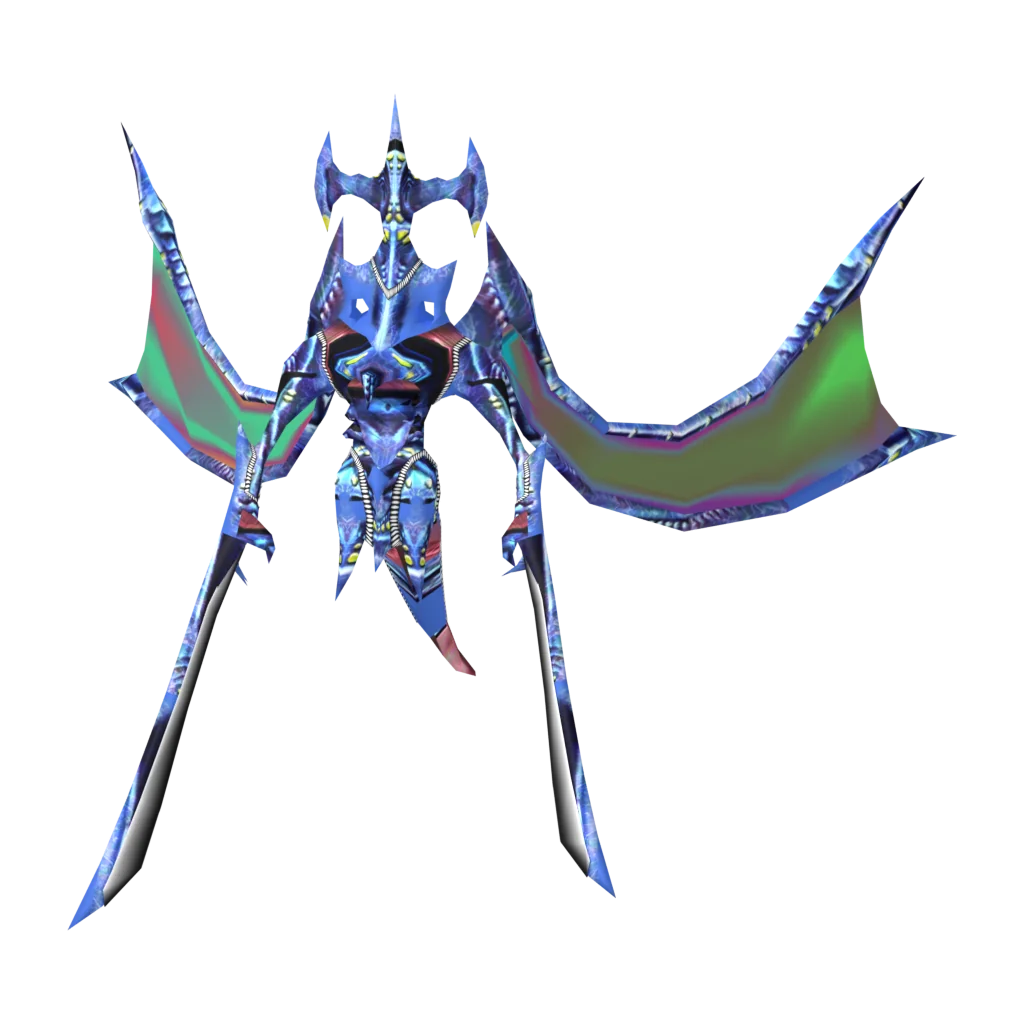
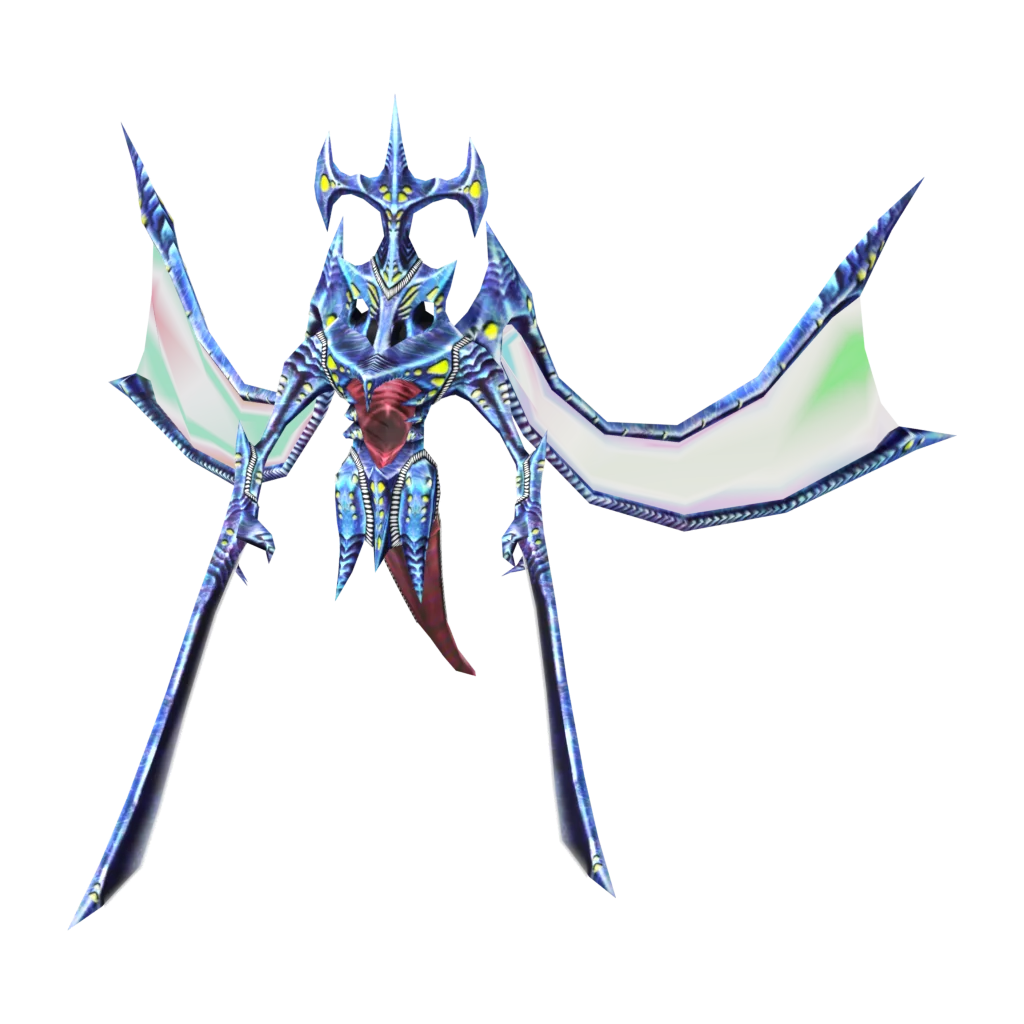
Redraw the Ill Gill render from its HD viewpoint and say dropcharts
Replace the Ill Gill HD image with the maintainer's 1280 x 1107 PNG and
render the model from bm_ene_ill_gill.bml at walk frame zero, yaw -20 and
pitch 5, matching the HD pose instead of the old side view.

Generalize the Dark Falz Blender renderer into render_blender_models.py with
per-recipe archives, optional yaw/pitch and additive glow materials. Store
decoded textures upright for the NJ mesh import, which re-renders the three
Dark Falz forms, and cover every Blender recipe in the evidence test.

The monster detail page's drop note and source link now say dropcharts.

Changed region(s): [[0.0625, 0.0938, 0.9375, 0.9062]]

diff --git a/src/app/monster-catalog/monster-catalog.component.html b/src/app/monster-catalog/monster-catalog.component.html
@@ -36,8 +36,8 @@
       <section id="stats" class="detail-section"><h2><span>01</span>{{ i18n.t('基础属性') }}</h2>@if(stats();as values){<dl class="stats-grid">@for(value of values;track $index){<div><dt>{{ metadata.statKeys[$index].toUpperCase() }} <small>{{ i18n.t(statLabels[$index]) }}</small></dt><dd>{{ value }}{{ $index===14?'%':'' }}</dd></div>}</dl>}@else{<p class="muted">{{ i18n.t('暂无此难度与模式的属性记录') }}</p>}</section>
       <section id="behavior" class="detail-section"><h2><span>02</span>{{ i18n.t('行为与特殊机制') }}</h2>@if(entry.notes.length){<ul class="behavior-notes">@for(note of entry.notes;track note.zh){<li>{{ i18n.localized(note) }}</li>}</ul>}@else{<p class="muted">{{ i18n.t('行为说明尚未收录，可查阅来源页面。') }}</p>}<a [href]="entry.source" target="_blank" rel="noopener">Ephinea Wiki ↗</a></section>
       <section id="attacks" class="detail-section"><h2><span>03</span>{{ i18n.t('攻击与机制数据') }}</h2><p class="muted">{{ i18n.t('数值需结合攻击类型、抗性、部位及触发条件阅读；未填写不代表 0。') }}</p><span class="source-badge">{{ i18n.t('来源表格（英文原文）') }}</span><div class="mechanic-grid">@for(table of tables();track $index){<article class="mechanic-table"><p class="muted" lang="en">{{ entry.sourceTitle }} · {{ table.headings.slice(0,-1).join(' / ') }}</p><h3 lang="en">{{ table.caption || table.section }}</h3><p class="table-context" lang="en">{{ tableContext(table) }}</p><div class="table-scroll" role="region" tabindex="0" [attr.aria-label]="table.caption || table.section"><table lang="en"><thead><tr>@for(cell of table.rows[0];track $index){<th scope="col">{{ cell }}</th>}</tr></thead><tbody>@for(row of table.rows.slice(1);track $index){<tr>@for(cell of row;track $index){<td [class.unknown]="!cell || cell.includes('???')">{{ cell || i18n.t('来源未填写') }}</td>}</tr>}</tbody></table></div><a class="table-source" [href]="entry.source+'#'+table.anchor" target="_blank" rel="noopener">Wiki ↗</a></article>}@empty{<p class="muted">{{ i18n.t('暂无此条件下的机制表格，请结合说明与来源阅读。') }}</p>}</div></section>
-      <section id="drops" class="detail-section"><h2><span>04</span>{{ i18n.t('稀有掉落') }}</h2><p class="muted">{{ i18n.t('掉落概率来自 droptable，为每次击杀的基础 DR，已包含 DAR；不要再次相乘。未计活动及队伍加成。') }}</p>@if(entry.dropScope==='boss'){<p class="notice">{{ i18n.t('以下为首领击破奖励，不是各部位分别掉落。') }}</p>}@if(drops();as drop){<p class="drop-origin" lang="en">{{ drop.name }} <span>DAR {{ drop.dar ?? i18n.t('来源未填写') }}</span></p><div class="drop-grid">@for(section of metadata.sections;track section.name;let i=$index){<article class="drop-card" [style.--section-color]="section.color"><h3><span class="section-dot" aria-hidden="true"></span>{{ i18n.t(sectionLabels[i]) }}<small>{{ section.name }}</small></h3>@for(item of drop.cells[i];track $index){<div class="drop-item">@if(item.id){<a [routerLink]="i18n.link('/data/items/'+item.id+'.html')">{{ i18n.name(item) }}</a>}@else{<strong>{{ i18n.name(item) }}</strong>}<span class="rate">{{ item.rate }}</span></div>}@empty{<p class="muted">{{ i18n.t('没有稀有掉落') }}</p>}</article>}</div>}@else{<p class="muted">{{ i18n.t('此条目未关联独立的稀有掉落记录。') }}</p>}<a href="https://dropcharts.psohaven.com/bb/" target="_blank" rel="noopener">{{ i18n.t('打开掉落表') }} ↗</a></section>
-      <section class="detail-section sources"><h2><span>05</span>{{ i18n.t('资料来源') }}</h2><p><a [href]="entry.source+'?oldid='+entry.revision" target="_blank" rel="noopener">Ephinea Wiki · #{{ entry.revision }}</a> · {{ i18n.t('核对日期') }} {{ entry.checkedAt }}</p><p><a [href]="metadata.dropSource" target="_blank" rel="noopener">droptable / bb/data/en.js ↗</a> <small>SHA-256 {{ metadata.dropSha256.slice(0,12) }}</small></p>@if(portraitSource()?.[0]==='wiki' && (difficulty()==='u'?entry.ultimateImageSource:entry.imageSource);as imageSource){<p><a [href]="imageSource" target="_blank" rel="noopener">{{ i18n.t('图片来源') }} · Ephinea Wiki ↗</a></p>}<a href="http://pso.ffsky.cn/ep1m1.htm" target="_blank" rel="noopener">{{ i18n.t('天幻怪物图鉴') }} ↗</a></section>
+      <section id="drops" class="detail-section"><h2><span>04</span>{{ i18n.t('稀有掉落') }}</h2><p class="muted">{{ i18n.t('掉落概率来自 dropcharts，为每次击杀的基础 DR，已包含 DAR；不要再次相乘。未计活动及队伍加成。') }}</p>@if(entry.dropScope==='boss'){<p class="notice">{{ i18n.t('以下为首领击破奖励，不是各部位分别掉落。') }}</p>}@if(drops();as drop){<p class="drop-origin" lang="en">{{ drop.name }} <span>DAR {{ drop.dar ?? i18n.t('来源未填写') }}</span></p><div class="drop-grid">@for(section of metadata.sections;track section.name;let i=$index){<article class="drop-card" [style.--section-color]="section.color"><h3><span class="section-dot" aria-hidden="true"></span>{{ i18n.t(sectionLabels[i]) }}<small>{{ section.name }}</small></h3>@for(item of drop.cells[i];track $index){<div class="drop-item">@if(item.id){<a [routerLink]="i18n.link('/data/items/'+item.id+'.html')">{{ i18n.name(item) }}</a>}@else{<strong>{{ i18n.name(item) }}</strong>}<span class="rate">{{ item.rate }}</span></div>}@empty{<p class="muted">{{ i18n.t('没有稀有掉落') }}</p>}</article>}</div>}@else{<p class="muted">{{ i18n.t('此条目未关联独立的稀有掉落记录。') }}</p>}<a href="https://dropcharts.psohaven.com/bb/" target="_blank" rel="noopener">{{ i18n.t('打开掉落表') }} ↗</a></section>
+      <section class="detail-section sources"><h2><span>05</span>{{ i18n.t('资料来源') }}</h2><p><a [href]="entry.source+'?oldid='+entry.revision" target="_blank" rel="noopener">Ephinea Wiki · #{{ entry.revision }}</a> · {{ i18n.t('核对日期') }} {{ entry.checkedAt }}</p><p><a [href]="metadata.dropSource" target="_blank" rel="noopener">dropcharts / bb/data/en.js ↗</a> <small>SHA-256 {{ metadata.dropSha256.slice(0,12) }}</small></p>@if(portraitSource()?.[0]==='wiki' && (difficulty()==='u'?entry.ultimateImageSource:entry.imageSource);as imageSource){<p><a [href]="imageSource" target="_blank" rel="noopener">{{ i18n.t('图片来源') }} · Ephinea Wiki ↗</a></p>}<a href="http://pso.ffsky.cn/ep1m1.htm" target="_blank" rel="noopener">{{ i18n.t('天幻怪物图鉴') }} ↗</a></section>
     }
   } @else if (result()) {
     <section class="empty"><h1>{{ i18n.t(result()?.failed?'资料暂时无法加载':'未找到怪物') }}</h1>@if(result()?.failed){<button (click)="retry()">{{ i18n.t('返回并重试') }}</button>}</section>

diff --git a/src/app/monster-catalog/monster-language.service.ts b/src/app/monster-catalog/monster-language.service.ts
@@ -24,7 +24,7 @@ const messages: Record<string,[string,string]> = {
   '数值需结合攻击类型、抗性、部位及触发条件阅读；未填写不代表 0。':['Read values with their damage type, resistances, part and trigger conditions. Blank does not mean zero.','攻撃の種類・耐性・部位・発動条件を併せて確認してください。未記載は 0 を意味しません。'],
   '此条目未关联独立的稀有掉落记录。':['No independent rare-drop row is linked to this entry.','この項目に独立したレアドロップは登録されていません。'],
   '以下为首领击破奖励，不是各部位分别掉落。':['These are boss-clear drops, not separate drops from each part.','以下はボス撃破時のドロップです。各部位の個別ドロップではありません。'],
-  '掉落概率来自 droptable，为每次击杀的基础 DR，已包含 DAR；不要再次相乘。未计活动及队伍加成。':['Rates come from droptable: base per-kill DR already includes DAR. Do not multiply again. Event and party boosts are excluded.','確率は droptable の基本 DR（撃破ごと）で、DAR を含みます。再度掛け合わせないでください。イベント・パーティ補正は含みません。'],
+  '掉落概率来自 dropcharts，为每次击杀的基础 DR，已包含 DAR；不要再次相乘。未计活动及队伍加成。':['Rates come from dropcharts: base per-kill DR already includes DAR. Do not multiply again. Event and party boosts are excluded.','確率は dropcharts の基本 DR（撃破ごと）で、DAR を含みます。再度掛け合わせないでください。イベント・パーティ補正は含みません。'],
   '没有稀有掉落':['No rare drop','レアドロップなし'], '打开掉落表':['Open drop chart','ドロップ表を開く'], '核对日期':['Checked','確認日'], '图片来源':['Image source','画像の出典'],
   '返回并重试':['Reload and retry','再読み込み'], '资料暂时无法加载':['Unable to load data','データを読み込めません'], '未找到怪物':['Enemy not found','エネミーが見つかりません'],
   '森林':['Forest','森'], '洞窟':['Cave','洞窟'], '坑道':['Mine','坑道'], '遗迹':['Ruins','遺跡'],

diff --git a/scripts/render_blender_models.py b/scripts/render_blender_models.py
@@ -1,8 +1,11 @@
-"""Render complete Dark Falz assemblies from the original BB archive in Blender.
+"""Render monster models from original BB archives in Blender (renders with `renderer: blender`).
 
-Uses source bind poses or exact wait-frame-zero keys, not a runtime replay.
-Run Blender with --python-exit-code 1 --python scripts/render_dark_falz_models.py.
+Uses source bind poses or exact motion-frame-zero keys, not a runtime replay.
+Optional `yaw` / `pitch` (degrees) turn the camera around the model's vertical axis
+and above it; yaw 0 faces the model's front.
+Run Blender with --python-exit-code 1 --python scripts/render_blender_models.py.
 """
+import math
 from pathlib import Path
 import argparse
 import hashlib
@@ -10,6 +13,7 @@ import json
 import sys
 
 import bpy
+import numpy as np
 from mathutils import Vector
 
 ROOT = Path(__file__).resolve().parents[1]
@@ -21,13 +25,24 @@ import render_textured as textures
 from pso_archives import bml_entries, gsl_files, pack_xvm
 from pso_motion_frame import apply_frame_zero
 
-OUT = ROOT / 'artifacts/dark-falz-renders'
+OUT = ROOT / 'artifacts/blender-renders'
 CLIENT = Path('/Applications/EphineaPSO.app/Contents/SharedSupport/prefix/drive_c/EphineaPSO/data')
 CONFIG = ROOT / 'content/monster-catalog/model-renders.json'
 
 
 def digest(data):
     return hashlib.sha256(data).hexdigest()
+
+
+def upright(images):
+    """Store decoded rows bottom-up as Blender expects; the NJ mesh import maps UVs as (u, 1 - v)."""
+    for image in images:
+        width, height = image.size
+        pixels = np.empty(width * height * 4, dtype=np.float32)
+        image.pixels.foreach_get(pixels)
+        image.pixels.foreach_set(pixels.reshape(height, width * 4)[::-1].ravel())
+        image.pack()
+    return images
 
 
 def material_factory(images):
@@ -52,7 +67,8 @@ def material_factory(images):
             camera.convert_from, camera.convert_to = 'WORLD', 'CAMERA'
             links.new(geometry.outputs['Normal'], camera.inputs[0])
             scale = nodes.new('ShaderNodeVectorMath'); scale.operation = 'MULTIPLY'
-            scale.inputs[1].default_value = (.5, -.5, 0)
+            # Upright images: an upward normal samples the texture's top row.
+            scale.inputs[1].default_value = (.5, .5, 0)
             links.new(camera.outputs[0], scale.inputs[0])
             bias = nodes.new('ShaderNodeVectorMath'); bias.operation = 'ADD'
             bias.inputs[1].default_value = (.5, .5, 0)
@@ -62,7 +78,18 @@ def material_factory(images):
             assert all(v.uv is not None for v in primitive.vertices), name
         links.new(image.outputs['Color'], bsdf.inputs['Base Color'])
         links.new(image.outputs['Color'], bsdf.inputs['Emission Color'])
-        if source.use_alpha:
+        if source.destination_blend == 1:
+            # Additive glow (destination factor ONE): emit the texture with coverage from its value (max channel).
+            emission = nodes.new('ShaderNodeEmission')
+            links.new(image.outputs['Color'], emission.inputs['Color'])
+            coverage = nodes.new('ShaderNodeSeparateColor'); coverage.mode = 'HSV'
+            links.new(image.outputs['Color'], coverage.inputs['Color'])
+            mix = nodes.new('ShaderNodeMixShader')
+            links.new(coverage.outputs['Blue'], mix.inputs['Fac'])
+            links.new(nodes.new('ShaderNodeBsdfTransparent').outputs[0], mix.inputs[1])
+            links.new(emission.outputs[0], mix.inputs[2])
+            links.new(mix.outputs[0], nodes.get('Material Output').inputs['Surface'])
+        elif source.use_alpha:
             links.new(image.outputs['Alpha'], bsdf.inputs['Alpha'])
         return mat
     return material
@@ -74,19 +101,27 @@ def main():
     parser.add_argument('labels', nargs='*')
     args = parser.parse_args(sys.argv[sys.argv.index('--') + 1:] if '--' in sys.argv else [])
     OUT.mkdir(parents=True, exist_ok=True)
-    loose = args.ephinea_data / 'darkfalz_dat.bml'
-    archive = loose.read_bytes() if loose.exists() else gsl_files(args.ephinea_data / 'data.gsl')['darkfalz_dat.bml']
-    entries = {name: (body, texture) for name, body, texture in bml_entries(archive)}
+    gsl = None
+
+    def read_archive(name):
+        nonlocal gsl
+        loose = args.ephinea_data / name
+        if loose.exists():
+            return loose.read_bytes()
+        gsl = gsl or gsl_files(args.ephinea_data / 'data.gsl')
+        return gsl[name]
+
     renders = json.loads(CONFIG.read_text())['renders']
     selected = set(args.labels) if args.labels else None
-    known = {label for label, job in renders.items() if job.get('renderer') == 'blender-dark-falz'}
+    known = {label for label, job in renders.items() if job.get('renderer') == 'blender'}
     if selected and selected - known:
-        raise ValueError(f'Unknown Dark Falz render: {selected - known}')
+        raise ValueError(f'Unknown Blender render: {selected - known}')
     for label, job in renders.items():
-        if job.get('renderer') != 'blender-dark-falz' or selected is not None and label not in selected:
+        if job.get('renderer') != 'blender' or selected is not None and label not in selected:
             continue
-        assert job['archive'] == 'darkfalz_dat.bml'
-        parts = [job, *job['parts']]
+        archive = read_archive(job['archive'])
+        entries = {name: (body, texture) for name, body, texture in bml_entries(archive)}
+        parts = [job, *job.get('parts', [])]
         bpy.ops.wm.read_factory_settings(use_empty=True)
         evidence = []
         for component in parts:
@@ -95,7 +130,7 @@ def main():
             assert texture, part
             path = OUT / (part + '.xvm')
             path.write_bytes(pack_xvm(texture))
-            images = textures.decode_textures(path)
+            images = upright(textures.decode_textures(path))
             motion_name = component.get('motion')
             posed_body = body
             if motion_name:
@@ -123,7 +158,12 @@ def main():
         scene.world = bpy.data.worlds.new('World'); scene.world.color = (.8, .8, .8)
         camera = bpy.data.objects.new('Camera', bpy.data.cameras.new('Camera'))
         scene.collection.objects.link(camera); scene.camera = camera
-        camera.location = center + Vector((.6, -3, .65)) * size
+        if 'yaw' in job:
+            yaw, pitch = math.radians(job['yaw']), math.radians(job.get('pitch', 0))
+            direction = Vector((math.sin(yaw) * math.cos(pitch), -math.cos(yaw) * math.cos(pitch), math.sin(pitch)))
+            camera.location = center + direction * 3.1 * size
+        else:
+            camera.location = center + Vector((.6, -3, .65)) * size
         camera.rotation_euler = (center-camera.location).to_track_quat('-Z', 'Y').to_euler()
         camera.data.type = 'ORTHO'; camera.data.clip_end = size * 100
         bpy.context.view_layer.update()
@@ -137,8 +177,8 @@ def main():
             light.rotation_euler = (-Vector(direction)).to_track_quat('-Z', 'Y').to_euler()
         output = OUT / (label + '.png'); scene.render.filepath = str(output)
         bpy.ops.render.render(write_still=True)
-        record = {'archive': 'darkfalz_dat.bml', 'archiveSha256': digest(archive), 'parts': evidence,
-                  'pose': 'exact source wait frame zero' if label == 'DarkFalzForm3' else 'source bind transforms',
+        record = {'archive': job['archive'], 'archiveSha256': digest(archive), 'parts': evidence,
+                  'pose': 'exact source motion frame zero' if job.get('motion') else 'source bind transforms',
                   'runtimeVerified': False,
                   'rendererSha256': digest(Path(__file__).read_bytes()),
                   'meshParserSha256': digest(Path(meshes.__file__).read_bytes()),

diff --git a/scripts/render_monster_models.py b/scripts/render_monster_models.py
@@ -128,12 +128,12 @@ def main() -> None:
     if unused := set(config["renders"]) - used:
         raise SystemExit(f"Renders bound to no catalog entry: {sorted(unused)}")
 
-    blender_renders = [label for label, job in renders.items() if job.get('renderer') == 'blender-dark-falz']
+    blender_renders = [label for label, job in renders.items() if job.get('renderer') == 'blender']
     if blender_renders:
         subprocess.run([args.blender, '--background', '--factory-startup', '--python-exit-code', '1',
-                        '--python', str(ROOT / 'scripts/render_dark_falz_models.py'), '--',
+                        '--python', str(ROOT / 'scripts/render_blender_models.py'), '--',
                         '--ephinea-data', str(args.ephinea_data), *blender_renders], check=True)
-        subprocess.run(['node', str(ROOT / 'scripts/import_dark_falz_models.mjs'), *blender_renders], check=True)
+        subprocess.run(['node', str(ROOT / 'scripts/import_blender_models.mjs'), *blender_renders], check=True)
         renders = {label: job for label, job in renders.items() if label not in blender_renders}
         if not renders:
             return
@@ -159,7 +159,7 @@ def main() -> None:
                 stale.unlink()
     digest = lambda path: hashlib.sha256(path.read_bytes()).hexdigest()
     previous = json.loads((OUTPUT / 'manifest.json').read_text())
-    manifest = {label: previous[label] if render.get('renderer') == 'blender-dark-falz' else
+    manifest = {label: previous[label] if render.get('renderer') == 'blender' else
                        {"file": file_name(label), "sha256": digest(OUTPUT / file_name(label)),
                         "thumbSha256": digest(OUTPUT / "thumbs" / file_name(label))}
                 for label, render in config["renders"].items()}

diff --git a/docs/MONSTER_CATALOG.md b/docs/MONSTER_CATALOG.md
@@ -374,7 +374,7 @@ did not re-evaluate tiers or change the in-game rotation.
 - 配置：`content/monster-catalog/model-renders.json`。`renders` 记录每张图的模型来源、动作与帧、机位、需要隐藏的特效外壳材质；`bindings` 把图鉴条目的普通 / Ultimate 外观绑定到渲染图。生成器在条目不存在或文件缺失时失败。
 - 模型来源有两种。`npc` 取本地 phantasmal-world（提交 `a8890d22`）已提取的 `assets/npcs`，按其 `EntityAssetLoader.entityTypeToPath` 解析，Ultimate 皮肤按 `UltimateSkins.kt`。`archive` + `model`（+ `motion`）直接读取 Ephinea 客户端数据：`data.gsl` 中的 BML 或散放的 `.bml`（`scripts/pso_archives.py` 负责 PRS、GSL 与 BML 解析）；没有自带贴图的条目使用同一档案的第一个贴图包。首领、部位与 Ultimate 档案（`_a` / `_ap`）以及 EP4 首领的分阶段待机动作均由此取得。
 - phantasmal-world 的部分资源命名有误，已改用客户端档案：其 Hidoom / Migium 实为出场地面物件（正确模型是 Pan Arms 档案 `bm7_s_paa_body` 的 `pal` / `par`），Canane 为另一模型（正确的是 `bm_ene_me1_mb`），挂在 MerissaA 名下的动作属于 Slime（`bm4_ps_ma_body`）。每次改动都应把渲染图与 Wiki / 高清图逐项对照。
-- 常规怪物渲染：`npm run generate:monster-renders -- --harness-assets <phantasmal-world>/web/src/jsMain/resources/assets/npcs`（`scripts/render_monster_models.py`）先把档案条目提取到该目录的 `raw/`，再调用 `scripts/render_monster_models.mjs` 在无界面浏览器中驱动 phantasmal-world 的导出入口 `?npcBatch=1`（`window.__renderNpc`），用它自己的蒙皮与 NJM 动画转换摆姿势，分别在黑底与白底上渲染 2048 px；两图之差还原透明度，叠加发光材质保持半透明。结果裁切到模型、居中留边，输出 1024 px 与 160 px WebP，`manifest.json` 记录 SHA-256。该导出入口只存在于本机 phantasmal-world 工作副本，不属于其仓库；重新渲染前需在本机构建并以 `--harness` 指向它。Dark Falz 三个形态改用下述 Blender 完整装配路径，批量入口按清单中的 `renderer` 分派，不再用只含本体的旧配方覆盖它们。
+- 常规怪物渲染：`npm run generate:monster-renders -- --harness-assets <phantasmal-world>/web/src/jsMain/resources/assets/npcs`（`scripts/render_monster_models.py`）先把档案条目提取到该目录的 `raw/`，再调用 `scripts/render_monster_models.mjs` 在无界面浏览器中驱动 phantasmal-world 的导出入口 `?npcBatch=1`（`window.__renderNpc`），用它自己的蒙皮与 NJM 动画转换摆姿势，分别在黑底与白底上渲染 2048 px；两图之差还原透明度，叠加发光材质保持半透明。结果裁切到模型、居中留边，输出 1024 px 与 160 px WebP，`manifest.json` 记录 SHA-256。该导出入口只存在于本机 phantasmal-world 工作副本，不属于其仓库；重新渲染前需在本机构建并以 `--harness` 指向它。该工作副本已不在本机；Dark Falz 三个形态与 Ill Gill 改用下述 Blender 路径（`renderer: "blender"`），批量入口按清单中的 `renderer` 分派，不再用旧配方覆盖它们。
 - 姿势：默认用模型自己的待机动作（wait / stand / standby 等，Poison Lily 用张开的 `waito`）；EP4 首领一、二阶段分别用 `1st_standby` / `2nd_standby`。De Rol Le（含 Ultimate）用前进动作 `forward` 第 0 帧的伸展身体，模型绕 X 轴抬头 12°，从头部斜前方 45° 取景，与维护者提供的参考图一致。颈部 4 根触手是独立模型 `boss2_b_derorure_tentacle`，游戏运行时挂到本体头部骨骼下的 4 个空节点（骨骼 29–32）；`attach` 按骨骼编号把部件挂到摆好姿势的本体上，触手用自身摆动动作 `tloop` 第 16 帧（向后上方伸展）。Spinner 用 `standby`：其动作类型 `0x2005` 的四元数旋转位于缩放之前，phantasmal-world 原解析顺序（缩放在前）会读错，本机导出入口的构建修正了这一顺序。没有动作的模型用绑定姿势，Hildeblue 借用 Hildebear、Gobooma / Gigobooma 借用 Booma 的同骨架动作。Hidoom 以前的地面物件、Merissa A / AA、Pouilly Slime 的环境反射外壳在导出中会画成不透明色块，按材质序号隐藏。
 - 2026-09-30 姿态对齐：Zu 与 Nano Dragon 去掉 `wait` 动作，沿用 Pazuzu 的原始展翅姿势和默认机位（yaw 35°、pitch 12°）。原待机第 0 帧会让两翼竖起遮挡身体；本次用各自模型重新生成 1024 px 头像、160 px 缩略图及校验清单。Zu 的 Crater / Desert、普通 / Ultimate 共用同一外观，全部同步；Nano Dragon 的两组难度也共用此姿势。模型、贴图与高清参考图未改。 本地生产构建、13 项怪物数据/图片检查、33 项图鉴浏览器测试通过，并目视检查 Zu 两区域、Pazuzu 与 Nano Dragon 的 Ultimate 页面；未部署。
 - 档案贴图：没有自带贴图包的模型按编号引用同一档案的贴图包（默认第一个，可用 `texture` 指定、`textureOrder` 重排）。提取时把 XVRT 块首尾相接重新打包，因为部分档案的块带对齐填充，顺序读取 IFF 的解析器会只读到第一张贴图；同名的模型与动作（如 `fs_obj_hiraishin_a.nj` / `.njm`）分开索引。解码后的 DXT 贴图使用线性过滤（与游戏一致，避免放大后的像素块）。
@@ -452,7 +452,7 @@ did not re-evaluate tiers or change the in-game rotation.
 环境映射面缺少对应纹理坐标处理，黑白背景还原后成为大片半透明青色。
 旧图可见像素中约 39.6% 满足青色块回归条件（alpha ≥ 20、R < 100、G/B > 190）。
 
-改用 `scripts/render_dark_falz_models.py` 读取原始 `darkfalz_dat.bml`：
+改用 `scripts/render_blender_models.py` 读取原始 `darkfalz_dat.bml`：
 
 - 一形态：本体、腰部、底座及 `da/db/dc_heada` 三个头，共六个组件；保留各模型原始根变换。
 - 二形态：本体及 `df2_s_dodai1` 腹部，共两个组件；翼膜读取原始环境映射标记，用视空间法线生成 UV，保留原始多色纹理，不涂色、不重绘。
@@ -468,14 +468,14 @@ did not re-evaluate tiers or change the in-game rotation.
 三形态是原始待机动作零帧；固定灯光与静态环境映射不等同于游戏运行时的
 完整着色、动画、灵魂效果或场景反射。图片清单记录每个部件、动作、源档案、
 渲染器、解析器与产物的校验值；全身检查图、源贴图留在忽略目录
-`artifacts/dark-falz-renders/`。
+`artifacts/blender-renders/`。
 
 ```sh
 rtk proxy /Applications/Blender.app/Contents/MacOS/Blender --background --factory-startup --python-exit-code 1 --python scripts/test_npc_model_geometry.py
 rtk proxy python3 -m unittest scripts.test_pso_motion_frame
-rtk proxy /Applications/Blender.app/Contents/MacOS/Blender --background --factory-startup --python-exit-code 1 --python scripts/render_dark_falz_models.py
+rtk proxy /Applications/Blender.app/Contents/MacOS/Blender --background --factory-startup --python-exit-code 1 --python scripts/render_blender_models.py
 # 目视检查三个形态后导入站点资源。
-rtk node scripts/import_dark_falz_models.mjs
+rtk node scripts/import_blender_models.mjs
 rtk node scripts/generate_monster_catalog.mjs
 ```
 
@@ -495,3 +495,12 @@ rtk node scripts/generate_monster_catalog.mjs
 - 使用维护者提供的 1280 × 1280 透明 PNG 替换 Ill Gill 普通 / Ultimate 共用的高清图（原紫色刃版本换为粉红色刃版本）。按图库规范以 Lanczos 缩放至 1024 × 1024，WebP quality 85 / method 6，保留透明度，成品 75,152 字节。
 - 清单同步附件名、来源路径 `User-provided corrections/2026-10-20/TOWER/恶镰死神.png`、尺寸、字节数、SHA-256 和两个外观绑定；旧 WebP 已移除，原附件不随站点提交。图库覆盖数量不变。
 - 本地验收：怪物测试 15 / 15 通过，成品已目视核对；最终 `release:prepare` 的生产构建、冒烟测试及怪物图鉴浏览器测试通过（发布结果见 `docs/DEPLOYMENT.md` 2026-10-20 记录）。维护者已批准提交推送；线上部署以对应 Pages 工作流结果为准。
+
+### Ill Gill 视角重绘与高清图更新（2026-10-20）
+
+- 高清图：维护者再次提供 1280 × 1107 透明 PNG（附件 `28e9aa8f6edee90311630de5beaa60ab_720.png`），按图库规范 Lanczos 等比缩放至 1024 × 886，WebP quality 85 / method 6，保留透明度，成品 69,824 字节；清单同步附件名、尺寸、字节数、SHA-256 与两个外观绑定，旧 WebP 已移除。
+- 模型渲染：原图为 phantasmal-world 默认机位的侧身视角。改为参照新高清图的姿势与视角：读取客户端档案 `bm_ene_ill_gill.bml` 的 `darkand_body` 与行走动作 `walk_darkand_body` 第零帧，机位 `yaw -20`、`pitch 5`（yaw 0 为模型正面，负值转向模型右侧）。待机动作 `wait` 第零帧为半蹲持镰，镰柄过陡，yaw −70°～20° 均无法对上高清图；`walk` 第零帧直立、镰柄由左下斜向右上，与高清图一致。phantasmal-world 导出入口已不在本机，因此 Ill Gill 改走 Blender 路径。
+- Blender 渲染脚本由 `render_dark_falz_models.py` / `import_dark_falz_models.mjs` 泛化为 `render_blender_models.py` / `import_blender_models.mjs`，`renderer` 值改为 `blender`，检查图目录改为 `artifacts/blender-renders/`：按配方读取任意客户端档案，支持可选 `yaw` / `pitch`；目标混合为 ONE 的加色材质（Ill Gill 的刃）以贴图颜色自发光、按颜色最大分量取覆盖率。
+- 修正贴图方向：`decode_textures` 的解码行序与 XJ 路径直接使用 V 坐标相配，而 NJ 网格导入按 `(u, 1 - v)` 写 UV，二者混用会使贴图上下颠倒（Ill Gill 的刃只采到黑色区域）。脚本现将解码贴图按 Blender 自下而上的行序存放；环境映射的视空间法线 UV 同步改为 `(.5, .5)` 缩放，保持法线朝上仍采样贴图顶行，采样结果与修正前相同。Dark Falz 三个形态因此一并重新渲染，机位和装配未变：二形态骨架由红转金，与高清图一致；二、三形态的翼膜由偏绿变为偏白的彩虹色，仍比高清图淡，三形态翼膜反而不如旧图接近高清图。静态环境映射无法还原游戏中的流动彩虹效果；维护者已验收并保留新图。
+- 测试：Blender 渲染证据测试覆盖全部 `renderer: blender` 配方（Dark Falz 三个形态与 Ill Gill），校验部件、配方与渲染器 / 解析器校验值。
+- 本地验证：怪物测试 15 / 15、高清图库测试、`test_pso_motion_frame` 与 Blender 网格几何测试通过；四张新渲染已与高清图逐一目视对照，维护者已在本地预览验收（2026-10-20）。

diff --git a/docs/DEPLOYMENT.md b/docs/DEPLOYMENT.md
@@ -64,6 +64,35 @@ and operating-system metadata before `_site` is published atomically. The source
 test gate separately rejects malformed HTML, unresolved relative content links
 and invalid material-plan presets.
 
+## October 20, 2026 Ill Gill render, HD artwork and dropcharts wording
+
+The maintainer reviewed the local preview and approved aligning the
+documentation, committing and pushing.
+
+- Ill Gill's HD image is replaced again with the maintainer's 1280 × 1107 PNG
+  (1024 × 886 WebP). Its model render is redrawn from the client archive
+  `bm_ene_ill_gill.bml` at walk frame zero, yaw −20° and pitch 5°, matching the
+  HD image's pose and viewpoint instead of the old side view.
+- The Dark Falz-only Blender renderer is generalized to
+  `scripts/render_blender_models.py` / `scripts/import_blender_models.mjs`
+  (`renderer: "blender"`), with per-recipe archives, optional yaw/pitch and
+  additive glow materials. Decoded textures were stored upside down for the NJ
+  mesh import; the fix re-renders all three Dark Falz forms, whose second-form
+  frame is now gold as in the HD art, while the wing membranes remain paler than
+  the HD images. See `docs/MONSTER_CATALOG.md`.
+- The monster detail page's rare-drop note (Chinese, English and Japanese) and
+  source link now say `dropcharts` instead of `droptable`. The in-repository
+  `data/droptable/` snapshot and the legacy `/droptable/` redirects keep their
+  names.
+
+Local verification of the final changes with `npm run release:prepare` (install
+run with `npm_config_audit=false`, as in the previous release; the separate
+`npm audit` step ran): zero vulnerabilities, all business tests passed, two
+identical production builds of 5,905 prerendered routes and 135 event
+fragments (gzip 1,044,719 / 1,050,000 bytes; English 533,725 and Japanese
+590,786 / 700,000), 22 of 22 smoke cases and 6,325 of 6,325 browser cases. The
+Pages workflow for the pushed revision establishes production publication.
+
 ## October 20, 2026 dependency updates, dropcharts rename and Ill Gill artwork
 
 The maintainer asked for the open Dependabot PRs to be handled on `master` and
